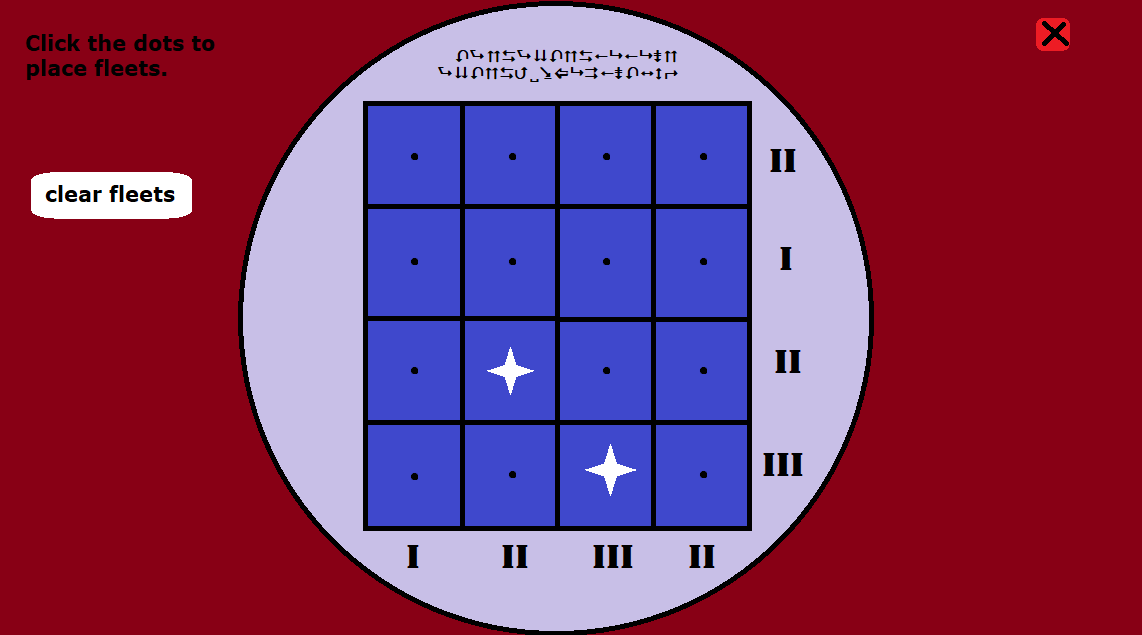
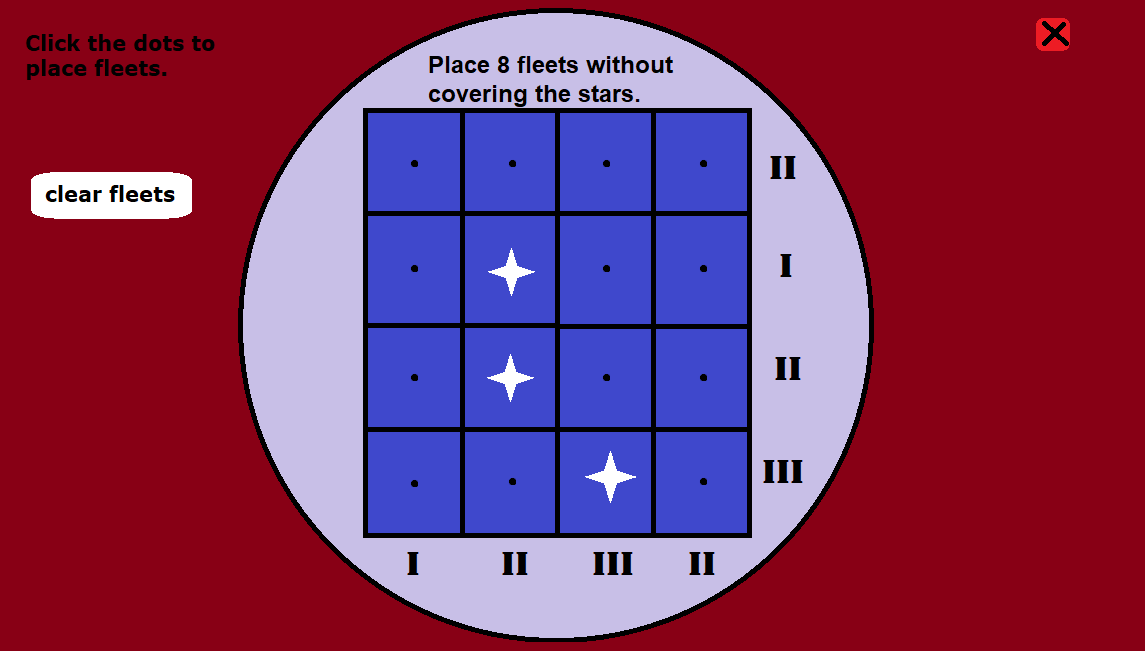
Moved buttons/removed coldOne
Made the buttons on the table so they don't overlap, removed coldOne from wall

diff --git a/src/CIS350Project/ERoom.java b/src/CIS350Project/ERoom.java
@@ -18,7 +18,7 @@ public class ERoom extends JFrame implements ActionListener {
     private final JButton turnLeft;
     private JButton askForHint;
     private final JButton pickNote;
-    private final JButton coldOne;
+
     private final JButton viewScreen;
     private final JButton viewBoard;
     private final JButton exitScreen;
@@ -111,11 +111,7 @@ public class ERoom extends JFrame implements ActionListener {
         pickNote.setOpaque(false);
         pickNote.addActionListener(this);
 
-        coldOne = new JButton(".");
-        coldOne.setBounds(765, 174, 30, 80);
-        panel.add(coldOne);
-        coldOne.setOpaque(false);
-        coldOne.addActionListener(this);
+
 
         //button to pick up the access card
         accessCard = new JButton(".");
@@ -250,85 +246,85 @@ public class ERoom extends JFrame implements ActionListener {
         exitScreen2.addActionListener(this);
 
         fleet1 = new JButton();
-        fleet1.setBounds(459, 161, 10, 10);
+        fleet1.setBounds(459, 170, 10, 10);
         panel.add(fleet1);
         fleet1.setOpaque(false);
         fleet1.addActionListener(this);
 
         fleet2 = new JButton();
-        fleet2.setBounds(557, 161, 10, 10);
+        fleet2.setBounds(557, 170, 10, 10);
         panel.add(fleet2);
         fleet2.setOpaque(false);
         fleet2.addActionListener(this);
 
         fleet3 = new JButton();
-        fleet3.setBounds(651, 161, 10, 10);
+        fleet3.setBounds(651, 170, 10, 10);
         panel.add(fleet3);
         fleet3.setOpaque(false);
         fleet3.addActionListener(this);
 
         fleet4 = new JButton();
-        fleet4.setBounds(748, 161, 10, 10);
+        fleet4.setBounds(748, 170, 10, 10);
         panel.add(fleet4);
         fleet4.setOpaque(false);
         fleet4.addActionListener(this);
 
         fleet5 = new JButton();
-        fleet5.setBounds(459, 266, 10, 10);
+        fleet5.setBounds(459, 275, 10, 10);
         panel.add(fleet5);
         fleet5.setOpaque(false);
         fleet5.addActionListener(this);
 
         fleet6 = new JButton();
-        fleet6.setBounds(557, 266, 10, 10);
+        fleet6.setBounds(557, 275, 10, 10);
         panel.add(fleet6);
         fleet6.setOpaque(false);
         fleet6.addActionListener(this);
 
         fleet7 = new JButton();
-        fleet7.setBounds(651, 266, 10, 10);
+        fleet7.setBounds(651, 275, 10, 10);
         panel.add(fleet7);
         fleet7.setOpaque(false);
         fleet7.addActionListener(this);
 
         fleet8 = new JButton();
-        fleet8.setBounds(748, 266, 10, 10);
+        fleet8.setBounds(748, 275, 10, 10);
         panel.add(fleet8);
         fleet8.setOpaque(false);
         fleet8.addActionListener(this);
 
         fleet9 = new JButton();
-        fleet9.setBounds(459, 375, 10, 10);
+        fleet9.setBounds(459, 384, 10, 10);
         panel.add(fleet9);
         fleet9.setOpaque(false);
         fleet9.addActionListener(this);
 
         fleet11 = new JButton();
-        fleet11.setBounds(651, 375, 10, 10);
+        fleet11.setBounds(651, 384, 10, 10);
         panel.add(fleet11);
         fleet11.setOpaque(false);
         fleet11.addActionListener(this);
 
         fleet12 = new JButton();
-        fleet12.setBounds(748, 375, 10, 10);
+        fleet12.setBounds(748, 384, 10, 10);
         panel.add(fleet12);
         fleet12.setOpaque(false);
         fleet12.addActionListener(this);
 
         fleet13 = new JButton();
-        fleet13.setBounds(459, 479, 10, 10);
+        fleet13.setBounds(459, 488, 10, 10);
         panel.add(fleet13);
         fleet13.setOpaque(false);
         fleet13.addActionListener(this);
 
         fleet14 = new JButton();
-        fleet14.setBounds(557, 479, 10, 10);
+        fleet14.setBounds(557, 488, 10, 10);
         panel.add(fleet14);
         fleet14.setOpaque(false);
         fleet14.addActionListener(this);
 
         fleet16 = new JButton();
-        fleet16.setBounds(748, 479, 10, 10);
+        fleet16.setBounds(748, 488, 10, 10);
         panel.add(fleet16);
         fleet16.setOpaque(false);
         fleet16.addActionListener(this);
@@ -387,14 +383,7 @@ public class ERoom extends JFrame implements ActionListener {
                 inv.redrawInv();
             }
         }
-        if (event.getSource() == coldOne) {
-            if (wall.getVisWall() % 4 == 1) {
-                wall.setOne();
-                wall.redraw();
-                inv.setColdOneInv();
-                inv.redrawInv();
-            }
-        }
+
 
         //action listener for picking up the access card
         if (event.getSource() == accessCard) {

diff --git a/src/CIS350Project/Wall.java b/src/CIS350Project/Wall.java
@@ -7,7 +7,6 @@ import java.util.Arrays;
 public class Wall extends JPanel {
     int visWall = 1;
     boolean note = true;
-    boolean coldOneWall = true;
     int centerConsole1 = 1;
     int centerConsole2 = 2;
     int centerConsole3 = 3;
@@ -107,9 +106,7 @@ public class Wall extends JPanel {
         note = false;
     }
 
-    public void setOne() {
-        coldOneWall = false;
-    }
+
 
     public void setCard() {
         card = false;
@@ -343,7 +340,7 @@ public class Wall extends JPanel {
             }
             if (Arrays.equals(fleet, fleetCode)) {
                 Image image1 = new ImageIcon("BoardCode.png").getImage();
-                g.drawImage(image1, 365, 103, this);
+                g.drawImage(image1, 365, 112, this);
                 fleetPuzzle = true;
             }
 
@@ -355,10 +352,7 @@ public class Wall extends JPanel {
                 Image note = new ImageIcon("noteHidden.png").getImage();
                 g.drawImage(note, 355, 300, this);
             }
-            if (coldOneWall) {
-                Image note = new ImageIcon("coldOneWall.png").getImage();
-                g.drawImage(note, 700, 159, this);
-            }
+
 
 
         } else if (visWall % 4 == 2) {
